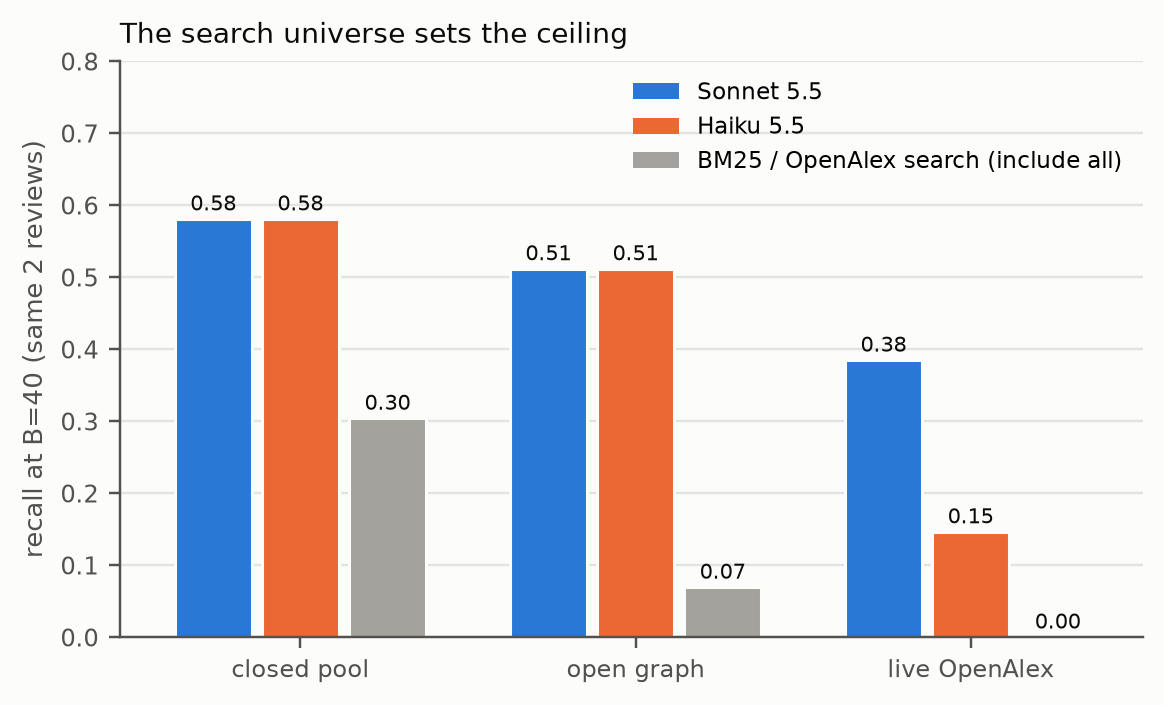
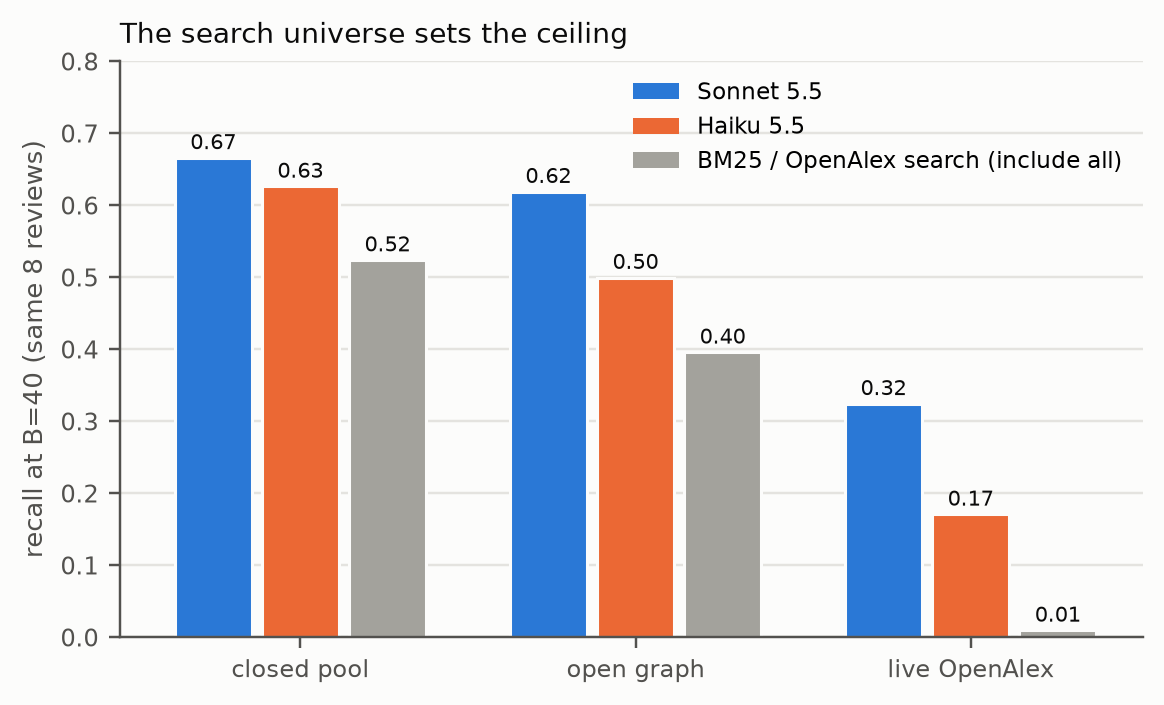
Report and RESULTS: live web, transfer web, forced chasing incl. trained model, recall estimation; Figures 4-5

diff --git a/docs/REPORT.md b/docs/REPORT.md
@@ -26,8 +26,11 @@ On 72 published reviews from SYNERGY+ we find:
 3. **The citation graph is not what limits the agents; budget and distractors are.** Most gold is within three
    citation hops of the starting papers. Enlarging the graph, or searching all of OpenAlex
    live, adds paths to the gold but also adds off-topic papers that cost budget, and recall
-   falls.
-4. **A 1.7B model trained on about 2,700 teacher turns** goes from useless (.11–.13 recall) to beating
+   falls: Sonnet drops from .67 to .32 on the live web. Forcing citation chasing lowers recall
+   or leaves it flat, and the LLM's lead over raw search grows as the universe grows.
+4. **Agents cannot yet tell how much they missed.** Recall estimates rank searches but are off
+   by about .2 per episode, and an LLM checker shares the agent's mistakes.
+5. **A 1.7B model trained on about 2,700 teacher turns** goes from useless (.11–.13 recall) to beating
    a prompted model of the same family 19× its size (Qwen3-32B), and it matches its teacher (Haiku 5.5) on
    24 reviews from other fields. Supervised fine-tuning does almost all of the work.
    Reinforcement learning (GRPO) adds a small gain that appears with both training seeds.
@@ -166,7 +169,59 @@ chasing.
   .52 → .40, Haiku .63 → .50, Sonnet .67 → .62, with citation-only agents hit hardest. More
   graph means more paths to gold, and also more off-topic neighbors to pay for.
 
-<!-- WEB-SECTION -->
+**Does searching the whole web help?** No: at this budget it halves recall. We ran the same
+agents on all of OpenAlex (about 250M works), with live search and live references and citers.
+
+![Search universe](figures/fig5_web.png)
+
+*Figure 5. Recall at B=40, 8 evaluation reviews, in three search universes of increasing size.*
+
+| recall at B=40 | closed pool | open graph | live web |
+|---|---|---|---|
+| Sonnet 5.5 | .666 | .619 | .324 |
+| Haiku 5.5 | .626 | .499 | .171 |
+| Search engine, include everything | .524 | .396 | .010 |
+
+Two things follow.
+- **The LLM's value grows with the universe.** Sonnet's lead over include-everything retrieval
+  is +.14 in the closed pool, +.22 on the open graph and +.31 on the web, where raw OpenAlex
+  search finds 1% of the gold. Sonnet's lead over Haiku also widens, from +.04 to +.15.
+- **Closed-pool benchmarks flatter every system.** Sonnet's real-web recall is about half its
+  closed-pool recall. The 24 transfer reviews replicate this: Haiku falls from .48 to .10, and
+  raw search reaches .02.
+
+**Are the agents wrong to skip citation chasing?** PaSa (He et al., 2025) loses 23–32 recall
+points without citation expansion, so we tested this directly. We replaced every third paid
+action with expansion of a paper the agent had already included.
+
+| forced − free recall | Haiku 5.5 | Sonnet 5.5 | trained 1.7B |
+|---|---|---|---|
+| closed, B=20 | −.044 [−.17, +.07] | – | −.064 [−.12, −.01] |
+| closed, B=40 | −.097 [−.19, −.02] | −.018 [−.05, +.02] | −.003 [−.04, +.04] |
+| open, B=40 | −.052 [−.16, +.04] | – | – |
+| transfer, B=40 | −.071 [−.12, −.03] | – | – |
+
+Forced chasing never helps and sometimes hurts, so the agents are right. For systematic-review
+search, another query is a better use of a call than a citation hop.
+
+**Can the agent tell how much it missed?** Reviewers need to know when a search is done. After
+each B=40 episode we estimated recall without gold labels, in two ways: a yield curve fitted to
+the agent's inclusions, and a screener checking the included set plus random samples of the
+papers it rejected and never saw. On 96 evaluation episodes, with true mean recall .53:
+
+| estimator | mean estimate | mean abs. error | corr. with true recall | 95% lower bound holds |
+|---|---|---|---|---|
+| Yield curve | .525 | .232 | .51 | – |
+| Sample, gold-label screener | .630 | .187 | .66 | 100% |
+| Sample, Haiku screener | .254 | .278 | .66 | 99% |
+
+Estimates rank good and bad searches but are off by about .2 per episode. Valid lower bounds
+are too loose to use: about .15 when true recall is about .55. The deeper problem is that the
+LLM checker shares the agent's mistakes. Haiku accepts 92% of gold papers, but also 87% of the
+papers the agents wrongly included. Correcting for this using rates measured on the training
+reviews made the estimates unstable (the lower bound then held in only 43–100% of episodes,
+depending on the set). Certified stopping would need a checker whose errors are independent of
+the agent's, such as human spot checks, and a much larger random sample.
 
 ## 5. Training a small agent
 
